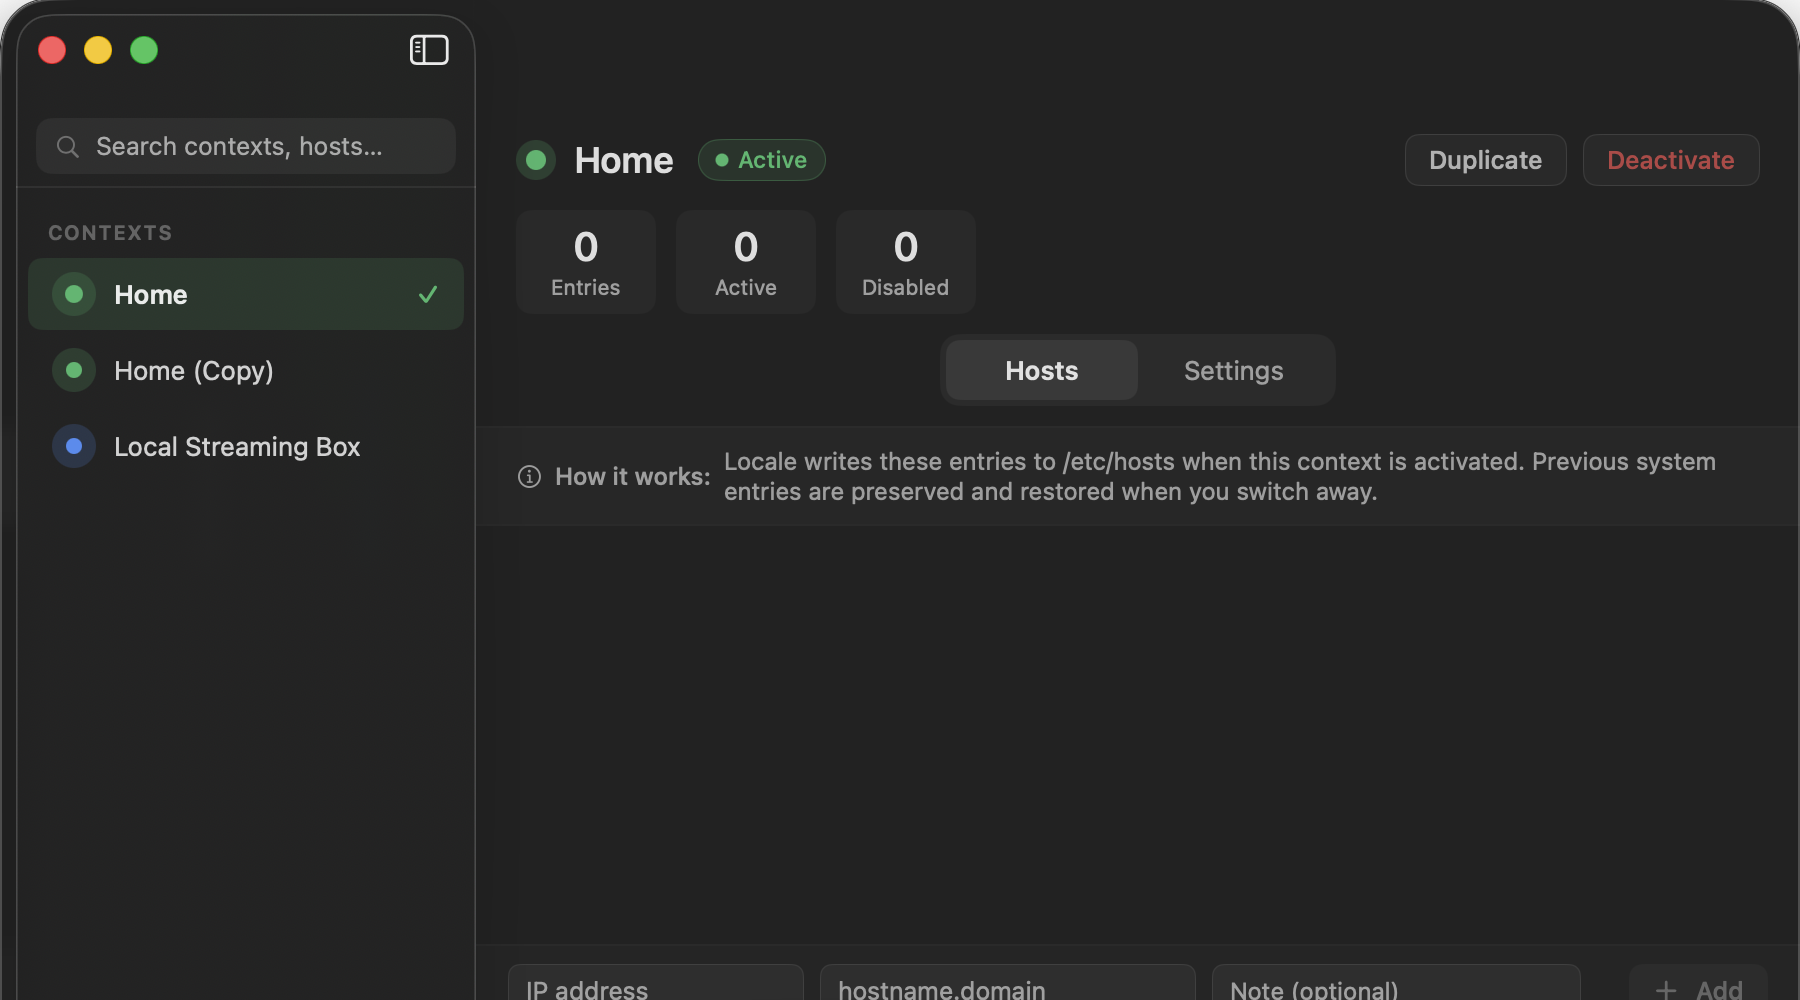
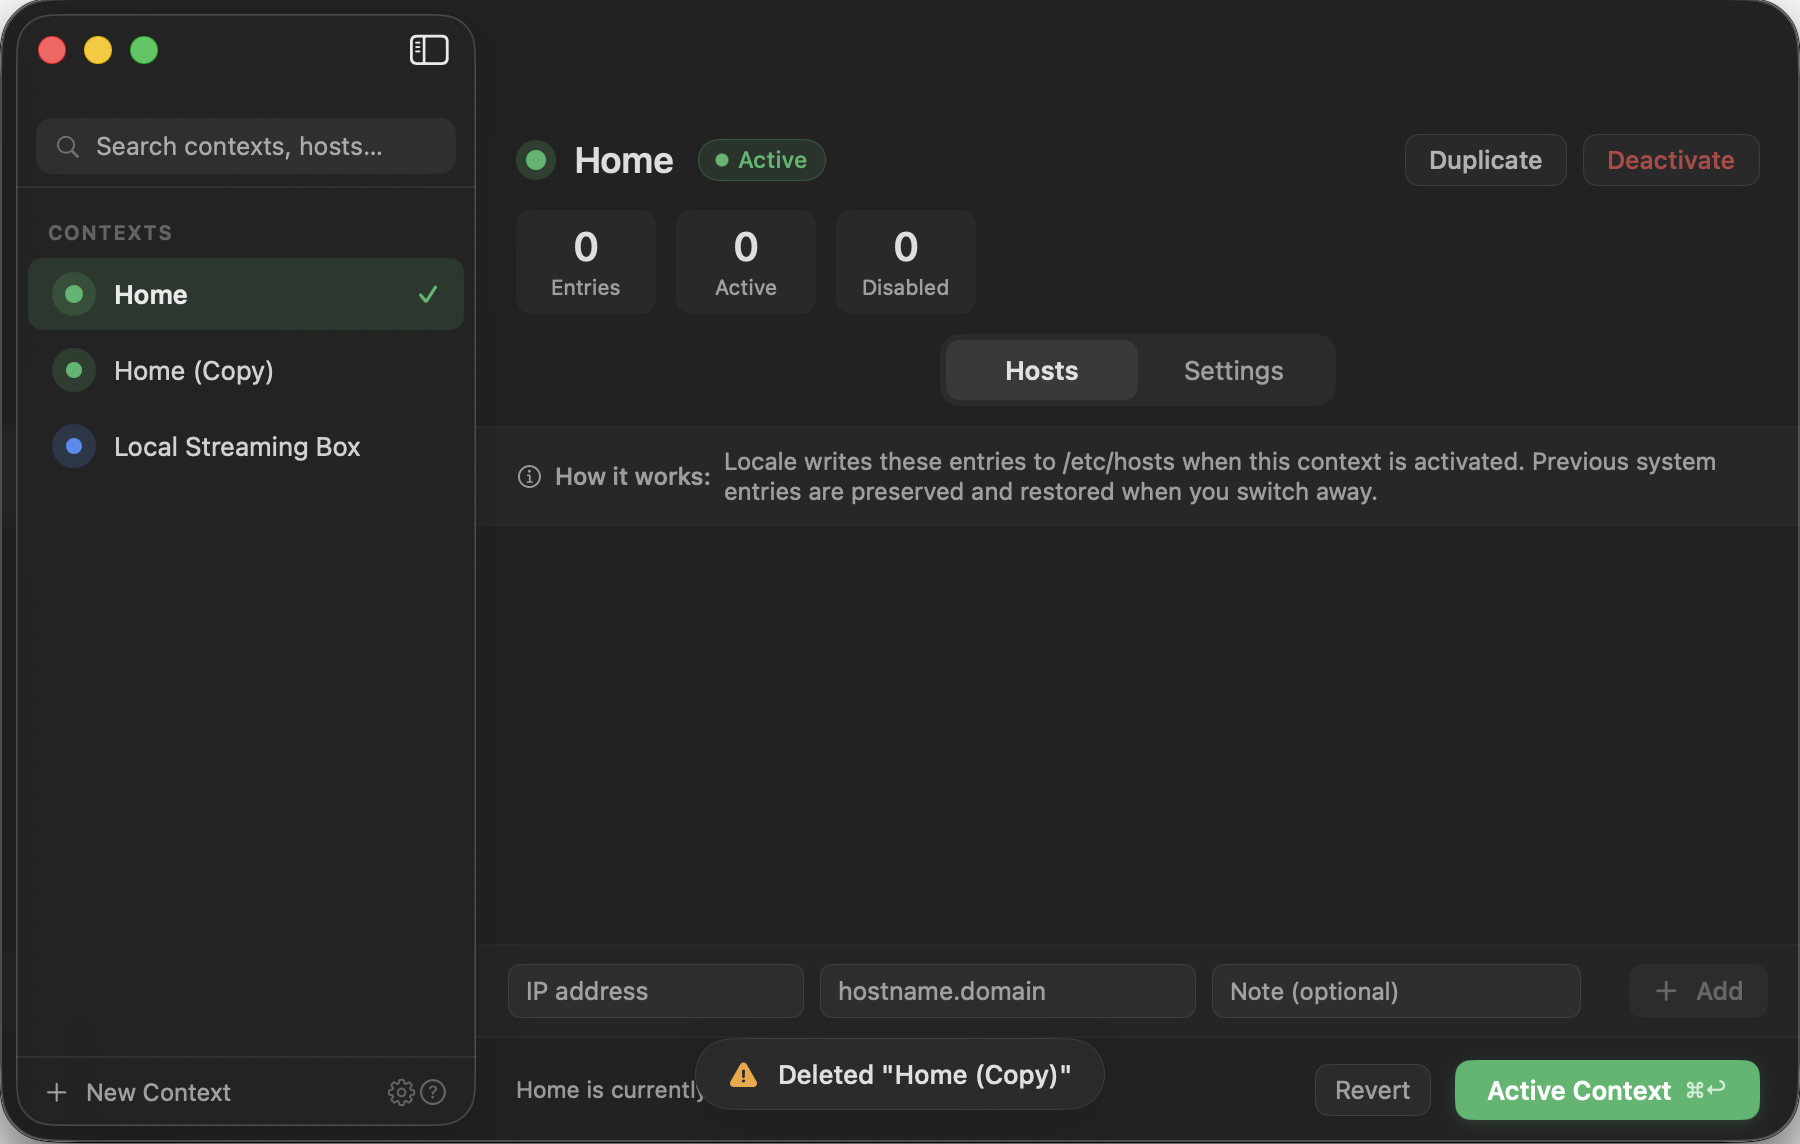
Fix hero screenshot crop

diff --git a/website/index.html b/website/index.html
@@ -837,10 +837,10 @@
   <div class="screenshot-frame">
     <img
       class="product-screenshot"
-      src="assets/locale-main-active.png?v=1"
+      src="assets/locale-main-toast.png?v=1"
       width="1800"
-      height="1000"
-      alt="Locale app main window showing the Home context active with hosts controls and status feedback"
+      height="1144"
+      alt="Locale app main window showing a duplicated context, hosts controls, and status feedback"
       fetchpriority="high">
   </div>
 </div>
@@ -977,12 +977,12 @@
     </figure>
     <figure class="shot-card">
       <img
-        src="assets/locale-main-toast.png?v=1"
+        src="assets/locale-main-active.png?v=1"
         width="1800"
         height="1144"
         loading="lazy"
-        alt="Locale main window showing a duplicated context confirmation toast">
-      <figcaption>Actions like duplicate, delete, and apply give clear feedback.</figcaption>
+        alt="Locale main window showing the Home context active with hosts controls and status feedback">
+      <figcaption>Active context controls stay visible while Locale reports the latest change.</figcaption>
     </figure>
   </div>
 
